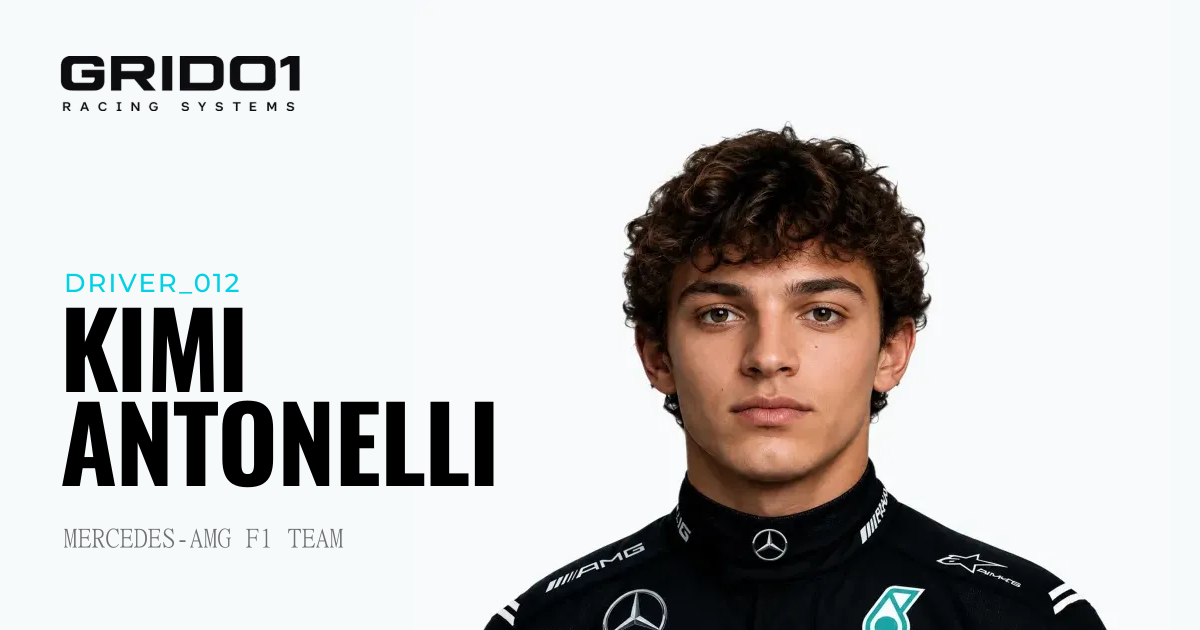
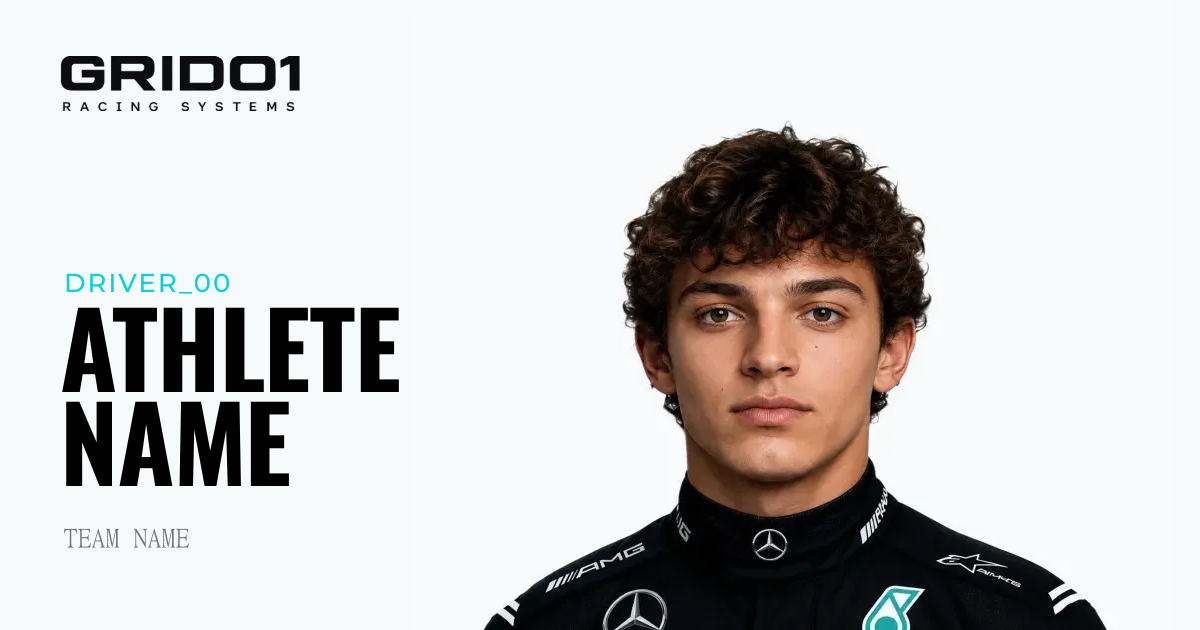
chore: rename to Athlete Personal Branding and genericize the athlete
Package, site, manifest and docs now use the Athlete Personal Branding name.
Every mention of the original driver is replaced with generic placeholders
(name, nationality, team, number, timeline copy, alt text, JSON-LD, OG
script, comments); the Italy flag and Mercedes logo give way to placeholder
marks.

Changed region(s): [[0.0308, 0.4222, 0.4317, 0.7841], [0.0308, 0.8444, 0.3083, 0.8746]]

diff --git a/src/data/mocks/home.ts b/src/data/mocks/home.ts
@@ -174,32 +174,32 @@ export const homeContent: HomeContent = {
     ],
     garage: { label: "Garage", href: "/garage" },
     driver: {
-      id: "driver_012",
-      firstName: "kimi",
-      lastName: "antonelli",
-      tagline: "Mercedes-AMG F1 Team rookie, 2026 season",
+      id: "driver_00",
+      firstName: "athlete",
+      lastName: "name",
+      tagline: "Team name, 2026 season",
       portrait: "/assets/hero/scene/person-diffuse.webp",
       meta: [
         {
-          icon: `${UI}/flag-italy.webp`,
-          iconAlt: "Italy",
+          icon: `${UI}/flag-placeholder.svg`,
+          iconAlt: "Nationality",
           iconWidth: 18,
           iconHeight: 12,
-          label: "Italy",
+          label: "Nationality",
         },
         {
           icon: `${UI}/icon-rookie.svg`,
           iconAlt: "",
           iconWidth: 16,
           iconHeight: 16,
-          label: "rookie season_2026",
+          label: "season_2026",
         },
         {
-          icon: `${UI}/mercedes-logo.webp`,
+          icon: `${UI}/team-placeholder.svg`,
           iconAlt: "",
           iconWidth: 14,
           iconHeight: 14,
-          label: "Mercedes-AMG F1 Team",
+          label: "Team name",
         },
       ],
     },
@@ -264,7 +264,7 @@ export const homeContent: HomeContent = {
   paddock: {
     headline: ["from the", "paddock"],
     intro:
-      "A composed drive through a difficult weekend secured another podium — and kept Kimi at the top of the championship.",
+      "A composed drive through a difficult weekend secured another podium — and kept the athlete at the top of the championship.",
     cta: { label: "read story", href: "/stories/hungarian-gp" },
     meet: {
       name: "hungarian gp",
@@ -294,58 +294,58 @@ export const homeContent: HomeContent = {
         year: "2012",
         frame: "centre",
         copyLead: "The first kart.",
-        copy: "At six, Kimi discovered karting — turning a childhood curiosity into something of his own.",
+        copy: "As a child, the athlete discovered karting — turning a curiosity into something of their own.",
         copyWidth: 228,
         image: "/assets/timeline/2012.webp",
-        alt: "Kimi in kart overalls in the paddock, aged six",
+        alt: "The athlete in kart overalls in the paddock as a child",
       },
       {
         year: "2015",
         frame: "side",
         align: "right",
         image: "/assets/timeline/2015.webp",
-        alt: "Kimi holding a karting trophy at sunset",
+        alt: "The athlete holding a karting trophy at sunset",
       },
       {
         year: "2019",
         frame: "centre",
-        copyLead: "Finding his people.",
-        copy: "Kimi joined the Mercedes Junior Programme, marking his first major step into professional motorsport.",
+        copyLead: "Finding their people.",
+        copy: "The athlete joined a junior programme, marking their first major step into professional motorsport.",
         copyWidth: 272,
         image: "/assets/timeline/2019.webp",
-        alt: "Kimi signing with the Mercedes junior team",
+        alt: "The athlete signing with a junior team",
       },
       {
         year: "2021",
         frame: "side",
         align: "left",
         image: "/assets/timeline/2021.webp",
-        alt: "Kimi beside a single-seater in the garage",
+        alt: "The athlete beside a single-seater in the garage",
       },
       {
         year: "2024",
         frame: "centre",
         copyLead: "The year everything changed.",
-        copy: "Formula 2 brought Kimi closer to F1, while Mercedes confirmed him as their future race driver.",
+        copy: "Formula 2 brought the athlete closer to F1, and a team confirmed them as its future race driver.",
         copyWidth: 278,
         image: "/assets/timeline/2024.webp",
-        alt: "Kimi walking the pit lane in Mercedes kit",
+        alt: "The athlete walking the pit lane in team kit",
       },
       {
         year: "2025",
         frame: "side",
         align: "right",
         image: "/assets/timeline/2025.webp",
-        alt: "Kimi in the Mercedes garage",
+        alt: "The athlete in the team garage",
       },
       {
         year: "2026",
         frame: "centre",
         copyLead: "From karts to f1.",
-        copy: "Kimi is now racing at the highest level, with Bologna still his anchor — family, home and life beyond racing.",
+        copy: "The athlete is now racing at the highest level, with home still their anchor — family and life beyond racing.",
         copyWidth: 284,
         image: "/assets/timeline/2026.webp",
-        alt: "The Mercedes-AMG F1 car on track",
+        alt: "The team's F1 car on track",
       },
     ],
   },

diff --git a/src/views/home/sections/hero/index.tsx b/src/views/home/sections/hero/index.tsx
@@ -74,7 +74,7 @@ export const Hero = ({ content, showScene }: HeroProps) => {
   // The canvas covers the whole section so the backdrop's contours run
   // unbroken across it; this box is what keeps the portrait its own size while
   // that happens. It is a real element in the flow, so the layout — not a magic
-  // number — decides how big Kimi is. Hidden from `xl`, where the box and the
+  // number — decides how big the athlete is. Hidden from `xl`, where the box and the
   // canvas are the same thing and the scene needs no correction.
   //
   // Refs, not state: the scene reads them on its own resize pass. Measuring
@@ -201,7 +201,7 @@ export const Hero = ({ content, showScene }: HeroProps) => {
                 the block's own subject small. Neither rail is unique to this
                 screen — the next race is the calendar strip's live round and
                 the season figures are the paddock's own panel — so on a phone
-                the block is the name, the meta rows and Kimi. They return at
+                the block is the name, the meta rows and the athlete. They return at
                 `sm`. */}
             <div className="order-3 max-sm:hidden md:shrink-0 xl:order-none">
               <Spring
@@ -222,7 +222,7 @@ export const Hero = ({ content, showScene }: HeroProps) => {
           </div>
 
           {/* The portrait's box. It holds the space in the column and, through
-              `subjectBox`, tells the scene how big to draw Kimi — the canvas
+              `subjectBox`, tells the scene how big to draw the athlete — the canvas
               itself is elsewhere, spanning the whole section. Gone from `xl`,
               where the box and the canvas coincide. */}
           {/* **Out of the column entirely below `xl`.** Two goes at putting the
@@ -251,7 +251,7 @@ export const Hero = ({ content, showScene }: HeroProps) => {
               // takes the whole screen.
               // The **scene** is what this has to be sized for, not the
               // still: the two draw different subjects — the still is the
-              // photograph of Kimi's face, the scene puts his helmet on, and
+              // photograph of the athlete's face, the scene puts his helmet on, and
               // the helmet fills far more of the same box. Measured on the
               // phone, the still's crown sits 23% down the box and the
               // helmet's 10%, so a box that clears the meta rows for one

diff --git a/src/views/home/sections/paddock/geometry.ts b/src/views/home/sections/paddock/geometry.ts
@@ -224,7 +224,7 @@ export const STATS_COL_W_NARROW = "170px";
 /**
  * The phone's own set. The block stops being a composition with a figure in
  * it and becomes a **stack**: masthead, the meeting, the four figures two-up,
- * then Kimi, then the report and its button, then the strip. Nothing overlaps
+ * then the athlete, then the report and its button, then the strip. Nothing overlaps
  * anything, which at 390 is the only arrangement that reads — laid out as the
  * tablet's, the face covered every word on the block.
  *
@@ -234,7 +234,7 @@ export const STATS_COL_W_NARROW = "170px";
  */
 export const PHONE = {
   blockH: "1062px",
-  /** The report sits above the figure, not beside it: masthead, copy, Kimi. */
+  /** The report sits above the figure, not beside it: masthead, copy, the athlete. */
   introBottom: "139px",
   gutter: "24px",
   headTop: "24px",
@@ -250,7 +250,7 @@ export const PHONE = {
   statsDrop: "63px",
   /** Two rows instead of four: the frame closes 245 higher. */
   statsStretch: "calc(var(--panel-u) * -245)",
-  /** Kimi between the figures and the report. */
+  /** The athlete between the figures and the report. */
   figCap: "599px",
   /** **Standing in the strip**, as the frame has him — not floating above it. */
   figLift: "328px",

diff --git a/src/views/home/sections/hero-scene/scene.ts b/src/views/home/sections/hero-scene/scene.ts
@@ -231,7 +231,7 @@ const MIN_FIT = 0.9;
  * Only there. At 1280 and up the masthead is set in the block's own scale and
  * clears the head on its own; below that the root font size is pinned at 16
  * and the name keeps growing against a viewport that is not, until
- * "antonelli" runs into the hair. A step of about 50 screen pixels opens that
+ * the surname runs into the hair. A step of about 50 screen pixels opens that
  * back up without reaching the panels on the right, which start at 1190 of
  * the frame.
  */
@@ -1566,7 +1566,7 @@ export class HeroScene {
    * The masthead is set in rem and the figure in world units against a fixed
    * camera, so the two do not shrink together: below 1440 the name keeps its
    * share of the width while the figure keeps its share of the *height*, and
-   * on a 1280x800 screen the helmet had closed on "antonelli" until the last
+   * on a 1280x800 screen the helmet had closed on the surname until the last
    * letters were reading through the glass. At 1440 and above both are
    * identities — 1 and 0 — so the frame the block is drawn at is untouched.
    */

diff --git a/src/utils/seo/structured-data.ts b/src/utils/seo/structured-data.ts
@@ -37,11 +37,11 @@ export function getSiteStructuredData() {
       {
         "@type": "Person",
         "@id": `${siteConfig.url}/#driver`,
-        name: "Kimi Antonelli",
+        name: "Athlete Name",
         jobTitle: "Formula 1 Driver",
-        nationality: { "@type": "Country", name: "Italy" },
+        nationality: { "@type": "Country", name: "Nationality" },
         image: `${siteConfig.url}${siteConfig.ogImage}`,
-        memberOf: { "@type": "SportsTeam", name: "Mercedes-AMG F1 Team" },
+        memberOf: { "@type": "SportsTeam", name: "Team Name" },
         url: siteConfig.url,
       },
     ],

diff --git a/src/lib/site.ts b/src/lib/site.ts
@@ -7,9 +7,9 @@
 import { publicEnv } from "@/env";
 
 export const siteConfig = {
-  name: "Kimi Antonelli — GRIDO1 Racing Systems",
+  name: "Athlete Personal Branding",
   description:
-    "Driver_012. Kimi Antonelli, rookie season 2026 with the Mercedes-AMG F1 Team. Next race: Belgian GP, Spa-Francorchamps.",
+    "Athlete Personal Branding — the season, the story and the next race, in one place. Next race: Belgian GP, Spa-Francorchamps.",
   /**
    * Public origin, no trailing slash. Drives canonical URLs, OG tags, the
    * sitemap, and JSON-LD. Set `NEXT_PUBLIC_SITE_URL` in production.

diff --git a/src/views/home/sections/paddock/paddock-panels.tsx b/src/views/home/sections/paddock/paddock-panels.tsx
@@ -99,7 +99,7 @@ const ROW_STAGGER = 90;
  * **Neither panel is drawn on a phone.** At 390 the block is a stack and the
  * two instruments took the whole upper half of it, which left the figure
  * hanging between them and the report. Both belong to a screen with room
- * beside the figure; the phone keeps the masthead, the report and Kimi.
+ * beside the figure; the phone keeps the masthead, the report and the athlete.
  */
 export const PaddockPanels = ({ meet, stats }: PaddockPanelsProps) => (
   <>

diff --git a/src/app/globals.css b/src/app/globals.css
@@ -34,7 +34,7 @@
   --raw-color-orange-500: #ff6b00; /* error/warning only — outside the design */
 
   /* Type scale — Figma px at the 1440 design base, where 1rem = 16px. */
-  --raw-font-size-96: 6rem; /* "kimi antonelli" */
+  --raw-font-size-96: 6rem; /* the athlete's name */
   --raw-font-size-70: 4.375rem; /* derived — the name on phones */
   --raw-font-size-52: 3.25rem; /* derived — the headline below 1024 */
   --raw-font-size-38: 2.375rem; /* stat figures */

diff --git a/src/views/home/sections/footer/index.tsx b/src/views/home/sections/footer/index.tsx
@@ -106,7 +106,7 @@ export const Footer = ({ content, className }: FooterProps) => (
         />
         <Image
           src="/assets/footer/helmet.webp"
-          alt="Kimi Antonelli's helmet"
+          alt="The athlete's helmet"
           width={1536}
           height={1024}
           priority={false}

diff --git a/src/views/home/sections/paddock/index.tsx b/src/views/home/sections/paddock/index.tsx
@@ -142,7 +142,7 @@ export const Paddock = ({ content, className, id }: PaddockProps) => (
     >
       <Image
         src="/assets/paddock/portrait.webp"
-        alt="Kimi Antonelli in the paddock"
+        alt="The athlete in the paddock"
         width={1350}
         height={1165}
         priority

diff --git a/obsidian/meta/changelog.md b/obsidian/meta/changelog.md
@@ -7,6 +7,17 @@ updated: 2026-09-23
 
 ## 2026-09-23
 
+- **Renamed to Athlete Personal Branding; the site is now a generic athlete
+  template.** Package `athlete-personal-branding` (was `next16-claude-starter`),
+  site/manifest name, README/AGENTS/vault titles. Every mention of the original
+  driver is gone — hero reads `driver_00` / "athlete name", meta rows
+  "Nationality" / "season_2026" / "Team name" on new placeholder marks
+  (`flag-placeholder.svg`, `team-placeholder.svg`; `flag-italy.webp` and
+  `mercedes-logo.webp` deleted), timeline and paddock copy, alt text, JSON-LD
+  `Person`, OG script and code comments made generic. Photography, the hero 3D
+  textures, `helmet3.glb` and root `person.png` / `helmet.png` still show the
+  original driver and are the next thing to replace.
+
 - **Menu links no longer 404.** Driver / view profile, Season and Next race
   scroll to `#career`, `#season` and `#paddock` on the home page through the
   new `<AnchorScroll/>` (stack-aware, Lenis-driven, pre-empts `next/link`).
@@ -260,7 +271,7 @@ updated: 2026-09-23
 
 - **The hero wears the right helmet.** `helmet.glb` — the yellow McLaren /
   Monster livery [[decisions-log]] ADR-0022 flagged as "plainly wrong for a
-  Kimi Antonelli frame" — is replaced by a supplied Mercedes-AMG Petronas model
+  Mercedes-driver frame" — is replaced by a supplied Mercedes-AMG Petronas model
   that ships its own baked PBR set (base colour, normal, metallic-roughness in
   its own UVs, embedded as WebP). It arrived twice on the same day: `helmet2.glb`
   first, then `helmet3.glb`, which is **what ships** — same shape of export, a
@@ -1186,7 +1197,7 @@ updated: 2026-09-23
 - **Phone pass 2: tighter stack, merged footer row, bigger name and portrait.**
   Block gaps 40 → 32; the scene band `52svh` → `58svh` with the cap at `135vw`.
   The name gets `--text-display-lg`, a new 70px step between `--type-display`
-  (52) and `--type-impact` (96) — measured, not guessed: `ANTONELLI` in Oswald
+  (52) and `--type-impact` (96) — measured, not guessed: the surname in Oswald
   Bold is 225px at 52px, so 79px is the most that clears 390's gutters and 72px
   the most that clears 360's. 70 leaves headroom on both.
 
@@ -1270,7 +1281,7 @@ updated: 2026-09-23
   was a still vector. The canvas now spans the whole section.
 
   What kept that from being possible before is that the subject's pixel size is
-  a function of canvas height, so stretching the canvas stretched Kimi with it
+  a function of canvas height, so stretching the canvas stretched the athlete with it
   (1.38x at 1024x820). That is now decoupled: `fitSubjectToBox` in `scene.ts`
   takes the box the portrait *should* occupy and returns corrected
   `subjectScale` / `subjectY`. The subject scales about its own origin and the

diff --git a/obsidian/meta/decisions-log.md b/obsidian/meta/decisions-log.md
@@ -17,7 +17,7 @@ consequences. Use [[templates/adr-note]] for new entries. Newest first.
 
 **Context.** Every link in the masthead, menu sheet, footer and hero CTAs
 pointed at a route (`/driver`, `/season`, `/journal`, `/next-race`, `/store`,
-`/garage`, `/trailer`, `/driver/kimi-antonelli`, `/stories/hungarian-gp`,
+`/garage`, `/trailer`, `/driver/<athlete>`, `/stories/hungarian-gp`,
 `/legal`) and only `/` existed, so all of them 404'd. Some have matching
 content on the home page; the rest have no content anywhere in the project.
 
@@ -226,7 +226,7 @@ hand again.
 - **Supersedes:** the open question left by [[decisions-log]] ADR-0022
 
 **Context.** ADR-0022 recorded that the hero wore `helmet.glb` in Lando's yellow
-McLaren/Monster livery — "plainly wrong for a Kimi Antonelli frame" — and that
+McLaren/Monster livery — "plainly wrong for a Mercedes-driver frame" — and that
 the front-on `helmet.png` could not be turned into a replacement texture. It
 listed what *would* work, first item: **a base colour painted into the model's
 own UV layout**, obtained from wherever the helmet model came from. The owner
@@ -422,7 +422,7 @@ Second, the desktop overlay composition is drawn at 1440 and only works
 there. The subject in the WebGL scene is sized by the *canvas height* (the
 camera's vertical FOV is fixed), while the text columns are sized by *width*.
 At 1024×768 the two diverge far enough that the portrait crossed into the
-headline — `ANTONELLI` sat behind the face, `driver_012` was hidden entirely,
+headline — the surname sat behind the face, `driver_012` was hidden entirely,
 and the footer row collapsed onto itself.
 
 **Decision.** Below `xl` (≤1279px) the root font-size holds at `FONT_BASE`
@@ -453,7 +453,7 @@ which is a scene-level change and deliberately out of scope here.
 
 **Context.** `helmet.png` (397×265, front-on product shot of the Mercedes
 helmet) was supplied to re-skin the 3D helmet, whose base colour is currently
-Lando's yellow Monster livery — plainly wrong for a Kimi Antonelli frame.
+Lando's yellow Monster livery — plainly wrong for a Mercedes-driver frame.
 
 **Decision.** The photo is **not** convertible, for three independent reasons,
 and the shell is recoloured to match it instead.
